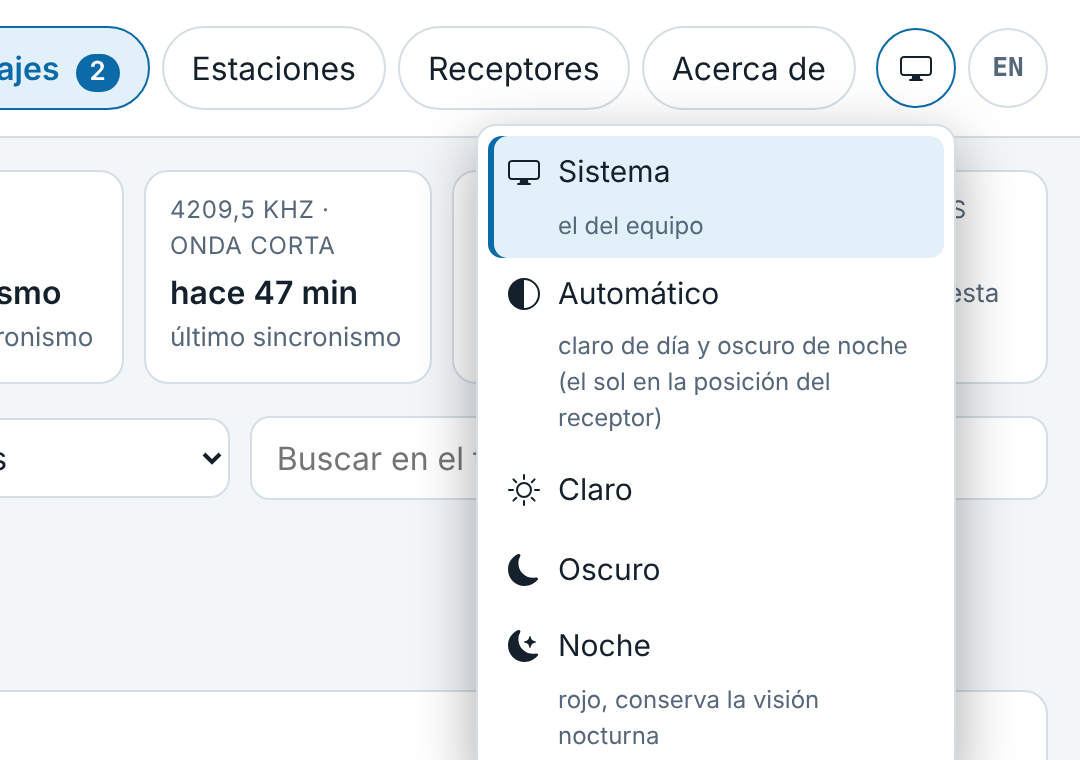
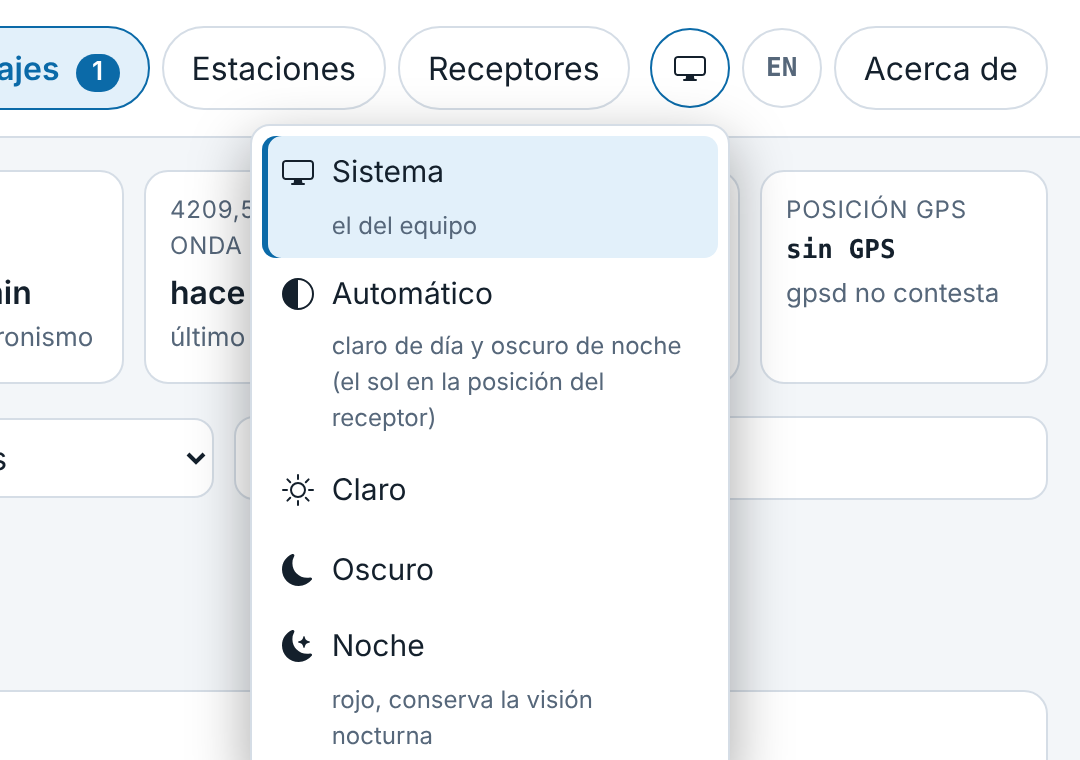
v1.6.1: «Acerca de» al extremo derecho de la cabecera
El botón va después de los de aspecto e idioma. En el móvil, el menú de
aspecto se abre hacia la derecha. Capturas del README al día.

Claude-Session: https://claude.ai/code/session_017B8KvHWCRVzRctpPv6ivfp

diff --git a/web_server/build/index.html b/web_server/build/index.html
@@ -28,7 +28,6 @@
       <button type="button" class="pestana activa" data-vista="mensajes" id="pestana-mensajes">Mensajes <span class="cuenta" id="cuenta-nuevos" hidden></span></button>
       <button type="button" class="pestana" data-vista="estaciones" id="pestana-estaciones">Estaciones</button>
       <button type="button" class="pestana" data-vista="receptores" id="pestana-receptores">Receptores</button>
-      <button type="button" class="pestana" data-vista="acerca" id="pestana-acerca">Acerca de</button>
       <div class="ajustes-vista">
         <div class="tema-elegir">
           <button type="button" class="boton-icono" id="tema-boton" aria-haspopup="true" aria-expanded="false" aria-label="Aspecto"></button>
@@ -42,6 +41,7 @@
         </div>
         <button type="button" class="boton-icono" id="idioma-boton" aria-label="Idioma"></button>
       </div>
+      <button type="button" class="pestana" data-vista="acerca" id="pestana-acerca">Acerca de</button>
     </nav>
   </header>
 

diff --git a/web_server/build/estilo.css b/web_server/build/estilo.css
@@ -267,3 +267,5 @@ input[type="text"] {
 .alarma p { margin: 0; flex: 1 1 260px; }
 .alarma strong { color: var(--rojo); }
 .alarma .boton { border-color: var(--rojo); font-weight: 700; }
+/* En pantallas estrechas el botón de aspecto queda a la izquierda: el menú se abre hacia la derecha */
+@media (max-width: 640px) { .tema-menu { right: auto; left: 0; } }

diff --git a/CHANGELOG.md b/CHANGELOG.md
@@ -2,6 +2,13 @@
 
 Fork EA7JRS/Navtex del receptor NAVTEX de bartelvdh. Las entradas dicen también qué se probó y qué no. Lo descrito en una fase puede haber cambiado en las posteriores (por ejemplo, los servicios y sus ajustes): el estado actual es el del [README](README.md).
 
+## [1.6.1] - 2026-11-22
+
+- Cabecera: el botón «Acerca de» pasa al extremo derecho, después de los de aspecto e idioma.
+- En el móvil, el menú de aspecto se abre hacia la derecha para no salirse de la pantalla.
+
+---
+
 ## [1.6.0] - 2026-11-22
 
 ### Sentencia NRM, regla de las 24 horas y un fallo de la alarma

diff --git a/docs/NORMAS.md b/docs/NORMAS.md
@@ -1,6 +1,6 @@
 # Navtex · Normas y reglamentos
 
-© 2026 Manuel - EA7JRS · versión 1.6.0 · ediciones comprobadas el 22 de noviembre de 2026
+© 2026 Manuel - EA7JRS · versión 1.6.1 · ediciones comprobadas el 22 de noviembre de 2026
 
 Este documento dice qué normas contempla el programa, qué aplica de cada una y qué no. Sirve para saber hasta dónde se puede confiar en él y para revisar el código contra el texto de cada norma.
 
